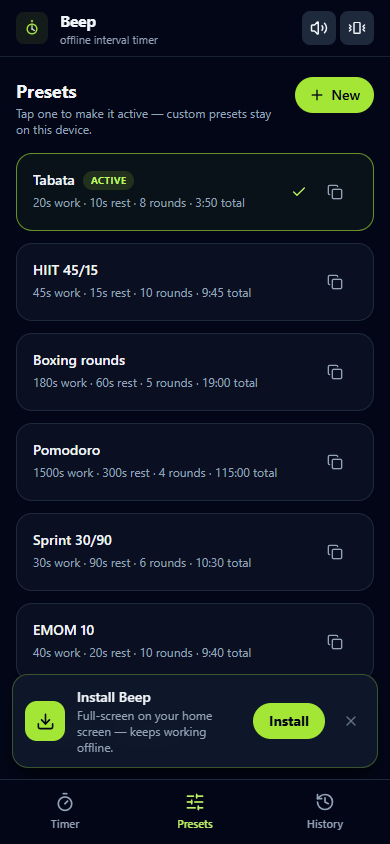
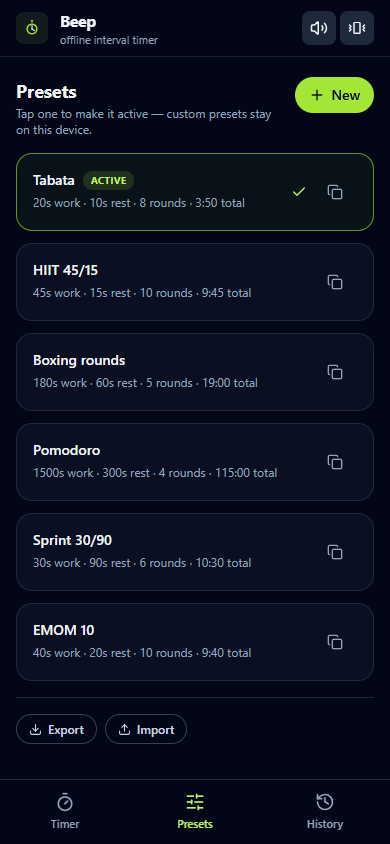
feat: UX round - 3-2-1 countdown, NEXT preview, tap-ring-to-pause, session summary, warm/cool phase colors, spring ring, FINAL ROUND, halfway chime, big numbers, voice cues, left-handed, streak, preset duplicate/reorder/share links, EMOM, touch targets

diff --git a/README.md b/README.md
@@ -23,13 +23,18 @@
 
 **Core**
 - Interval engine: work/rest segments, round counter, ring + total progress, pause / resume / skip / reset / finish
+- **3-2-1 GET READY countdown** before every session — beeps 3-2-1, then the engine starts (second tap cancels)
+- **NEXT preview** under the ring ("NEXT · Rest 0:10 · round 2") so you can prepare for what's coming
+- **The whole ring is a tap target** — start / pause / resume with a sweaty thumb, no precision aiming
+- **Session summary at the end**: total time, rounds completed, honest work/rest split, and one-tap Share (Web Share API → clipboard fallback)
 - **Background cues that can't be missed:** when the screen isn't visible, every phase change and the finish fire a persistent service-worker notification (`requireInteraction`, `tag` + `renotify` → exactly one cue at a time, replaced per phase). Permission is requested once, on the first Start tap — never nags.
 - **Drift-free catch-up scheduler:** the engine runs on absolute timestamps with a plain interval (rAF stops entirely when backgrounded) and *replays every boundary crossed* — after the OS throttles a slept phone, cues fire with a "N phases passed" summary instead of vanishing silently. Each tick also arms a precise `setTimeout` at the next boundary (an exact wake, not a polled guess), and if a >5 s gap contained crossed phases the catch-up notification is forced **even after you unlock straight into the app** — those cues were physically missed, so the notification says so
-- 5 built-in presets (Tabata, HIIT 45/15, Boxing rounds, Pomodoro, Sprint 30/90) + create / edit / delete custom presets
-- **Presets export/import as JSON** — share workouts, back up, move them between devices (import validates + clamps every field and **reports skipped entries and unknown fields explicitly** — nothing is dropped silently)
-- Session history with stats (sessions, this week, total time) — stored on the device (`localStorage`, `navigator.storage.persist()` requested so it survives storage pressure)
+- **6 built-in presets (Tabata, HIIT 45/15, Boxing rounds, Pomodoro, Sprint 30/90, EMOM 10)** + create / edit / delete custom presets, duplicate any built-in as an editable copy, and reorder customs with touch-friendly ↑/↓ (order persists)
+- **Presets export/import as JSON** — share workouts, back up, move them between devices (import validates + clamps every field and **reports skipped entries and unknown fields explicitly** — nothing is dropped silently) — or **share a preset as a link** (`?p=<base64url>`): the receiver gets an "Add this preset?" card, no file needed
+- Session history with stats (sessions, this week, total time) — stored on the device (`localStorage`, `navigator.storage.persist()` requested so it survives storage pressure) — plus a **streak counter** ("3-day streak in a row")
 - Countdown beeps for 3/2/1, a distinct Web Audio fanfare per phase, and **distinct haptics per phase** (work = 3 short pulses, rest = 1 long) plus sound / vibration toggles in the header
 - Screen-reader announcements on every phase/status change (`aria-live="assertive"`)
+- **Preferences where they're used** (chips on the timer card): Big numbers (96px digits for across-the-room viewing), Halfway chime (opt-in midpoint cue), Voice cues ("Work, round 3 of 8" via `speechSynthesis`), Left-handed layout (controls swap sides)
 - Denied-permission UX: the Timer screen says **once** (dismissible) that notifications are off and what still works — no silent failure
 - "Offline" pill appears the moment the network drops
 
@@ -50,9 +55,9 @@
 | --- | --- | --- |
 | ![Timer](./screenshots/timer-screen.png) | ![Presets](./screenshots/presets-screen.png) | ![History](./screenshots/history-screen.png) |
 
-| Core feature with the server switched **off** |
-| --- |
-| ![Offline](./screenshots/offline-screen.png) |
+| Session summary (after finish) | Core feature with the server switched **off** |
+| --- | --- |
+| ![Session summary](./screenshots/session-summary.png) | ![Offline](./screenshots/offline-screen.png) |
 
 ---
 
@@ -154,8 +159,8 @@ Any other static host works too — the build uses a relative base (`base: './'`
 │  ├─ lib/cues.ts            # sound + haptics + notifications, one dispatcher per phase
 │  ├─ lib/notify.ts          # permission flow (ask once), SW notifications, cleanup
 │  ├─ lib/sound.ts           # Web Audio cues + iOS unlock / resume
-│  ├─ lib/presets-io.ts      # preset JSON export/import (validated + clamped)
-│  └─ components/            # Timer, Presets, History, Header, TabBar, banners
+│  ├─ lib/presets-io.ts      # preset JSON import/export + ?p= share links
+│  └─ components/            # Timer (+ summary & preference chips), Presets, History, banners
 ├─ scripts/smoke.mjs         # headless-Chrome end-to-end + offline test (cross-platform)
 ├─ scripts/bump-cache.mjs    # npm run bump:cache → sw.js cache version++
 ├─ tools/icon.html           # source of the PNG app icons
@@ -164,7 +169,7 @@ Any other static host works too — the build uses a relative base (`base: './'`
 
 ## Automated checks — `npm run test:smoke`
 
-16 checks in real headless Chrome: app renders · zero console/page errors · no horizontal overflow at 390 px · manifest installable · service worker active · start + finish a session (this also exercises the notification-permission flow) · history persisted to `localStorage` · export/import controls present · **server killed → app reloads from cache → timer still runs** · **changed asset + changed sw.js bytes → update toast appears → Refresh serves the new file without a hard reload** (the exact path a `bump:cache` release takes) · and it regenerates the screenshots above.
+19 checks in real headless Chrome: app renders · zero console/page errors · no horizontal overflow at 390 px · **NEXT preview present before start** · manifest installable · service worker active · **3-2-1 get-ready countdown appears on Start** · start + finish a session (this also exercises the notification-permission flow) · **session summary renders after finish** · history persisted to `localStorage` · export/import controls present · **server killed → app reloads from cache → timer still runs** · **changed asset + changed sw.js bytes → update toast appears → Refresh serves the new file without a hard reload** (the exact path a `bump:cache` release takes) · and it regenerates the screenshots above.
 
 The same test runs on every push/PR in **GitHub Actions** (`.github/workflows/ci.yml`, screenshots uploaded as artifacts) and gates the Pages deploy.
 
